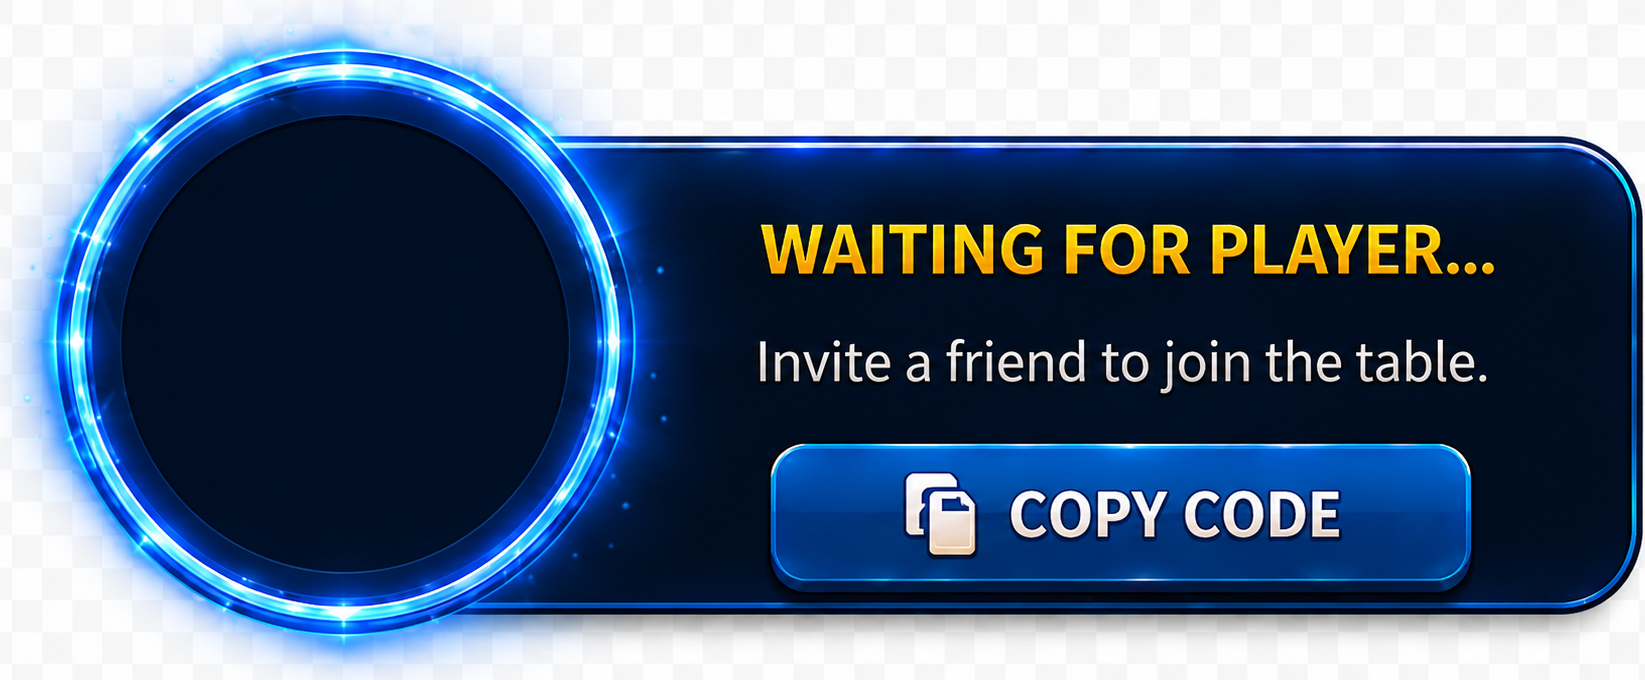
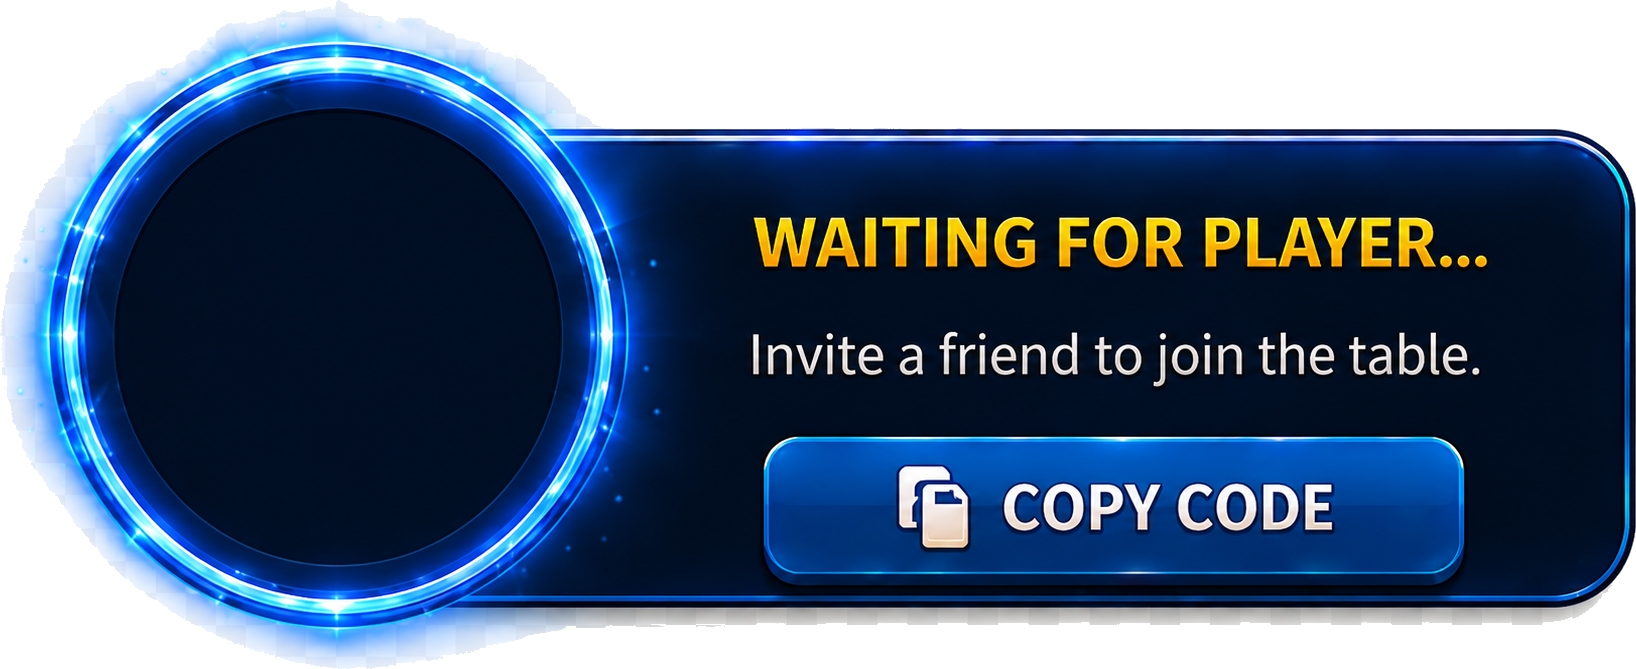
Tongits: fix waiting-for-player seat transparency
The empty-seat component had a baked checkerboard background (opaque),
so it rendered as a white box on the felt. Key it out via the same
edge flood-fill used for the occupied seat, re-crop, and adjust the
component aspect/anchor to the new dims. Base + occupied piece unchanged.

diff --git a/src/components/TongitsWaitingRoomArt.tsx b/src/components/TongitsWaitingRoomArt.tsx
@@ -45,7 +45,7 @@ const OCC = {
   ready: { l: 0.726, t: 0.187, w: 0.25, h: 0.3 },
   agreed: { l: 0.726, t: 0.57, w: 0.25, h: 0.3 },
 };
-const EMP = { W: 22.5, H: 16.5, ringcx: 0.198, ringcy: 0.5, copy: { l: 0.47, t: 0.66, w: 0.43, h: 0.2 } };
+const EMP = { W: 22.5, H: 16.35, ringcx: 0.193, ringcy: 0.5, copy: { l: 0.47, t: 0.67, w: 0.43, h: 0.19 } };
 const ANCHORS = [
   { x: 11.5, y: 28 },
   { x: 50, y: 28 },